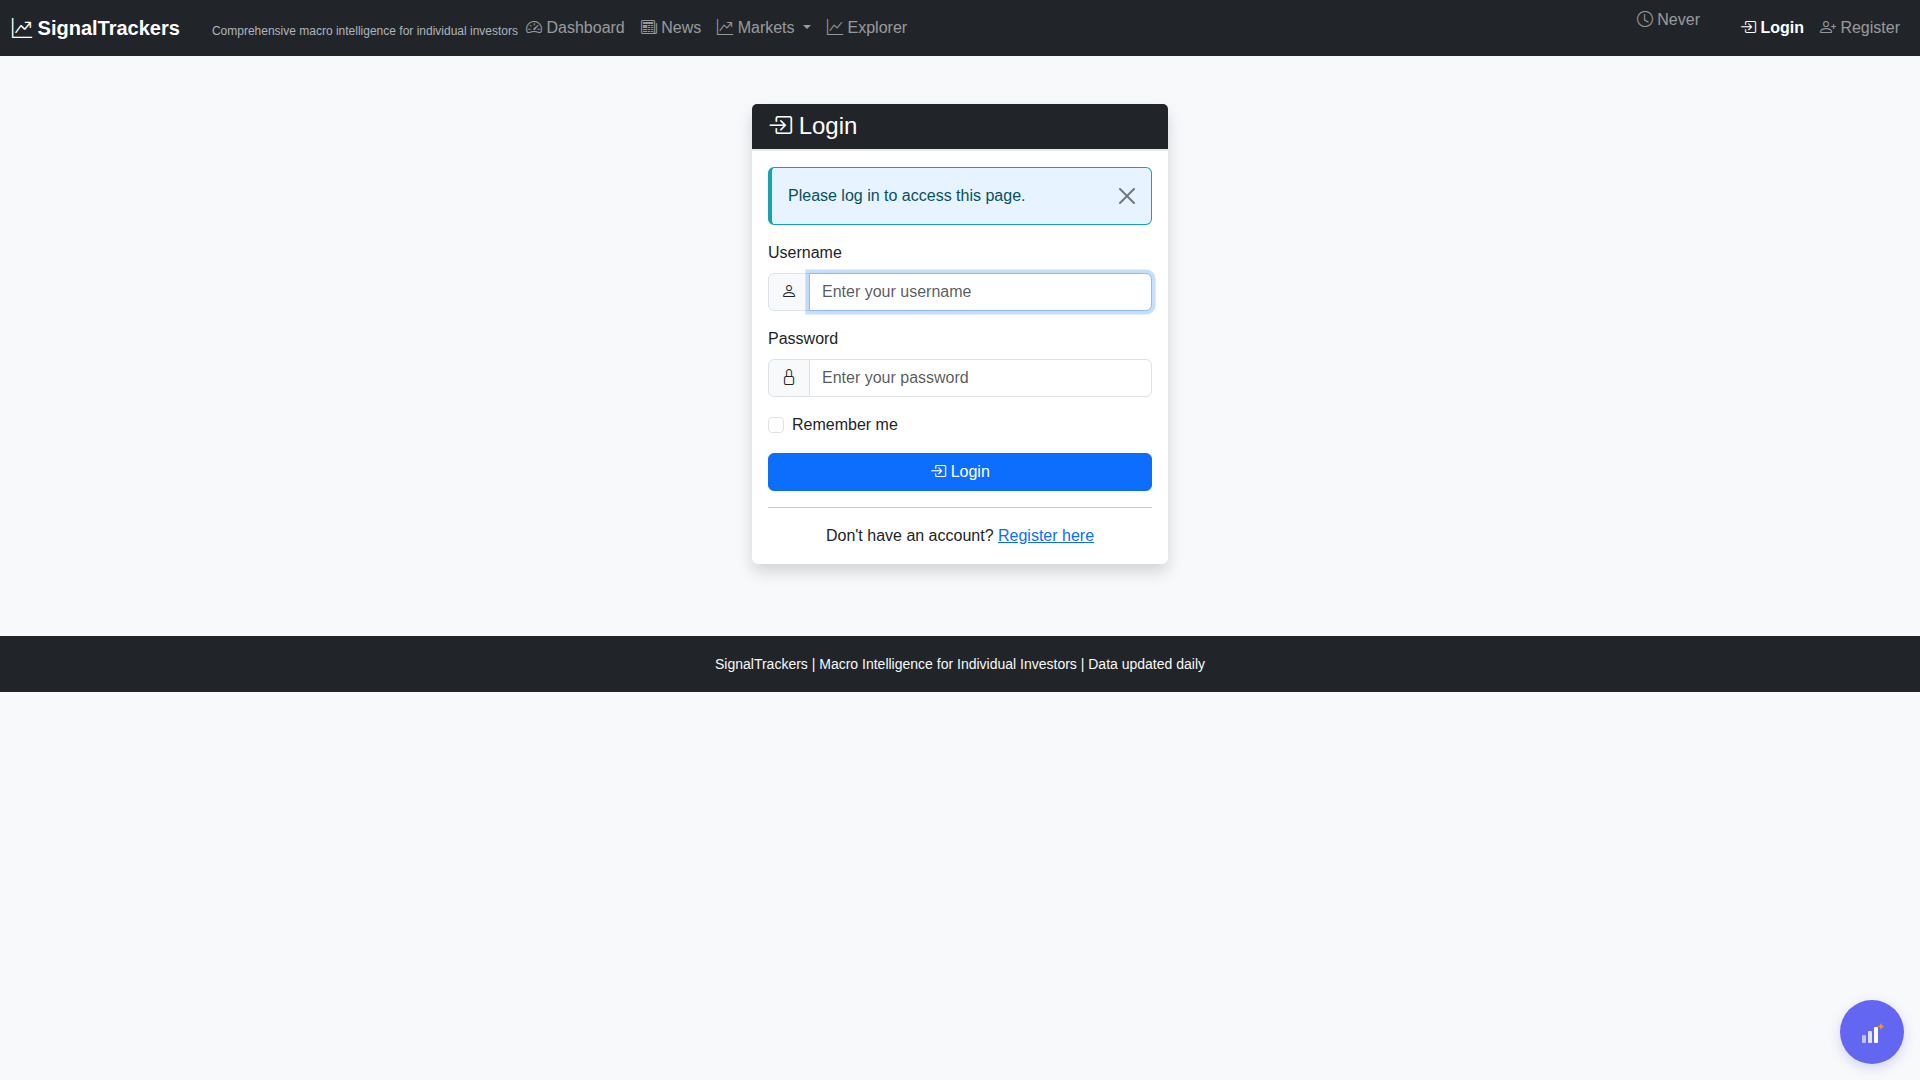
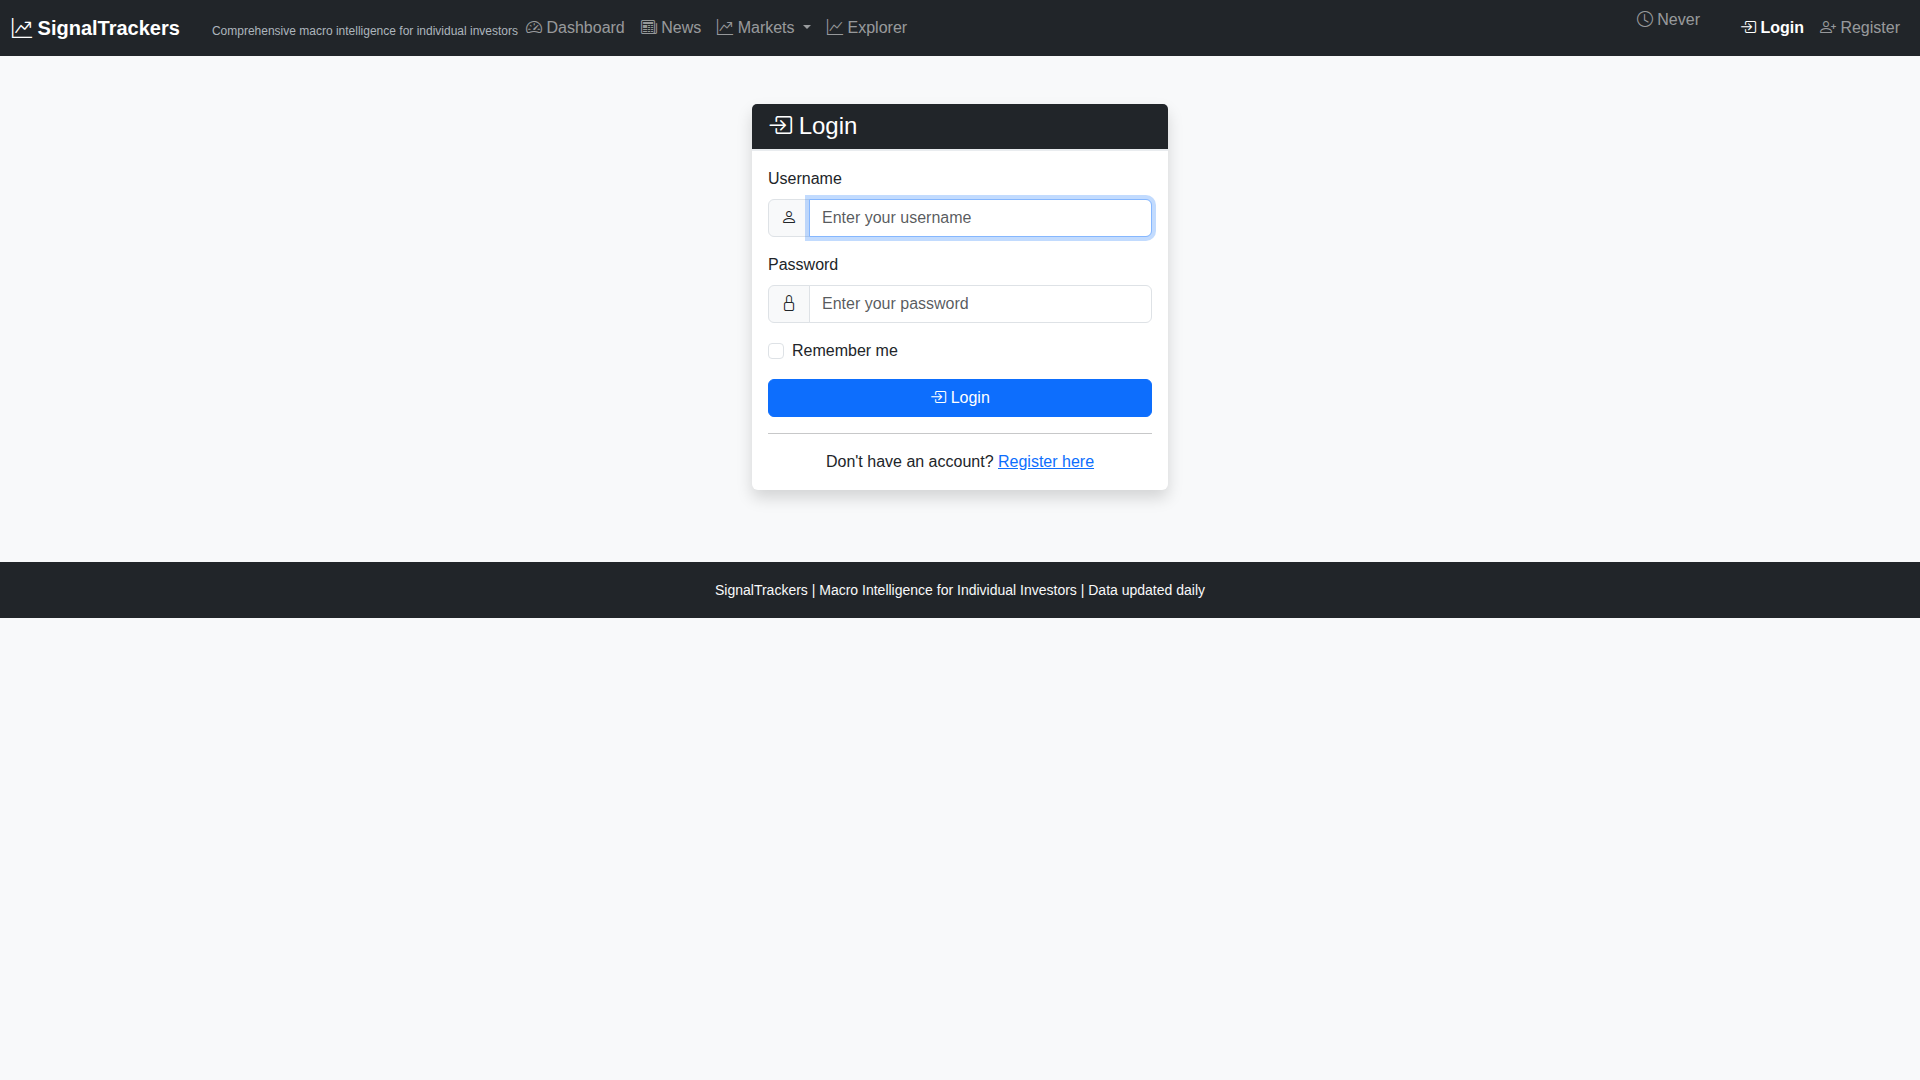
Add US-13.2.2 screenshots and fix chatbot script for auth
- Add screenshots-us1322.spec.js with anonymous vs logged-in comparisons
  (homepage, equities, portfolio for anon; homepage, equities for logged-in)
- Fix screenshots-chatbot.js: add login step (anonymous can't see chatbot FAB)
- Fix screenshots-chatbot.js: update stale selectors (#ai-chat-button → #chatbot-fab)
- Regenerate all main screenshots reflecting current UI state

Addresses design review on #428

Changed region(s): [[0.0, 0.1528, 1.0, 0.6417], [0.9375, 0.9167, 1.0, 1.0]]

diff --git a/screenshots-us1322.spec.js b/screenshots-us1322.spec.js
@@ -1,0 +1,94 @@
+// Screenshot spec for US-13.2.2: Remove Anonymous AI Trial
+// Captures anonymous vs logged-in UI to verify AI elements are hidden/shown correctly
+// Run: npx playwright test screenshots-us1322.spec.js --reporter=line
+const { test, expect } = require('@playwright/test');
+const path = require('path');
+const fs = require('fs');
+
+const BASE_URL = 'http://localhost:5000';
+const OUT_DIR = path.join(__dirname, 'screenshots', 'us1322');
+
+test.beforeAll(() => {
+  fs.mkdirSync(OUT_DIR, { recursive: true });
+});
+
+// --- Anonymous user screenshots (not logged in) ---
+
+test.describe('Anonymous user — no AI elements', () => {
+
+  test('homepage-anonymous-desktop', async ({ page }) => {
+    await page.setViewportSize({ width: 1280, height: 900 });
+    await page.goto(`${BASE_URL}/`, { waitUntil: 'networkidle' });
+    await page.waitForTimeout(500);
+    // Verify no chatbot FAB visible
+    const chatBtn = page.locator('#ai-chat-button');
+    if (await chatBtn.count() > 0) {
+      await expect(chatBtn).not.toBeVisible();
+    }
+    await page.screenshot({
+      path: path.join(OUT_DIR, 'homepage-anonymous-desktop.png'),
+      fullPage: false,
+    });
+  });
+
+  test('equities-anonymous-desktop', async ({ page }) => {
+    await page.setViewportSize({ width: 1280, height: 900 });
+    await page.goto(`${BASE_URL}/equities`, { waitUntil: 'networkidle' });
+    await page.waitForTimeout(500);
+    await page.screenshot({
+      path: path.join(OUT_DIR, 'equities-anonymous-desktop.png'),
+      fullPage: false,
+    });
+  });
+
+  test('portfolio-anonymous-desktop', async ({ page }) => {
+    await page.setViewportSize({ width: 1280, height: 900 });
+    await page.goto(`${BASE_URL}/portfolio`, { waitUntil: 'networkidle' });
+    await page.waitForTimeout(500);
+    await page.screenshot({
+      path: path.join(OUT_DIR, 'portfolio-anonymous-desktop.png'),
+      fullPage: false,
+    });
+  });
+
+});
+
+// --- Logged-in user screenshots (AI elements visible) ---
+
+test.describe('Logged-in user — AI elements present', () => {
+
+  test('homepage-loggedin-desktop', async ({ page }) => {
+    await page.setViewportSize({ width: 1280, height: 900 });
+    // Login
+    await page.goto(`${BASE_URL}/login`);
+    await page.fill('input[name=username]', 'testuser');
+    await page.fill('input[name=password]', 'testpassword');
+    await page.click('button[type=submit]');
+    await page.waitForURL(`${BASE_URL}/`);
+    // Navigate to homepage
+    await page.goto(`${BASE_URL}/`, { waitUntil: 'networkidle' });
+    await page.waitForTimeout(500);
+    await page.screenshot({
+      path: path.join(OUT_DIR, 'homepage-loggedin-desktop.png'),
+      fullPage: false,
+    });
+  });
+
+  test('equities-loggedin-desktop', async ({ page }) => {
+    await page.setViewportSize({ width: 1280, height: 900 });
+    // Login
+    await page.goto(`${BASE_URL}/login`);
+    await page.fill('input[name=username]', 'testuser');
+    await page.fill('input[name=password]', 'testpassword');
+    await page.click('button[type=submit]');
+    await page.waitForURL(`${BASE_URL}/`);
+    // Navigate to equities
+    await page.goto(`${BASE_URL}/equities`, { waitUntil: 'networkidle' });
+    await page.waitForTimeout(500);
+    await page.screenshot({
+      path: path.join(OUT_DIR, 'equities-loggedin-desktop.png'),
+      fullPage: false,
+    });
+  });
+
+});

diff --git a/screenshots-chatbot.js b/screenshots-chatbot.js
@@ -10,22 +10,29 @@ const { chromium } = require('playwright');
     { name: 'desktop', width: 1920, height: 1080 }    // Desktop
   ];
 
-  const pageUrl = 'http://localhost:5000/'; // Homepage
+  const baseUrl = 'http://localhost:5000';
+
+  // Login required — anonymous users cannot see chatbot (US-13.2.2)
+  await page.goto(`${baseUrl}/login`);
+  await page.fill('input[name=username]', 'testuser');
+  await page.fill('input[name=password]', 'testpassword');
+  await page.click('button[type=submit]');
+  await page.waitForURL(`${baseUrl}/`);
 
   for (const viewport of viewports) {
     console.log(`Capturing chatbot on ${viewport.name}...`);
 
     await page.setViewportSize({ width: viewport.width, height: viewport.height });
-    await page.goto(pageUrl);
+    await page.goto(`${baseUrl}/`);
 
     // Wait for page to fully load
     await page.waitForLoadState('networkidle');
 
-    // Click the chatbot button
-    await page.click('#ai-chat-button');
+    // Click the chatbot FAB
+    await page.click('#chatbot-fab');
 
-    // Wait for chatbot container to be visible
-    await page.waitForSelector('#ai-chat-container', { state: 'visible', timeout: 5000 });
+    // Wait for chatbot panel to be visible
+    await page.waitForSelector('#chatbot-panel', { state: 'visible', timeout: 5000 });
 
     // Wait a bit for any animations to complete
     await page.waitForTimeout(500);
